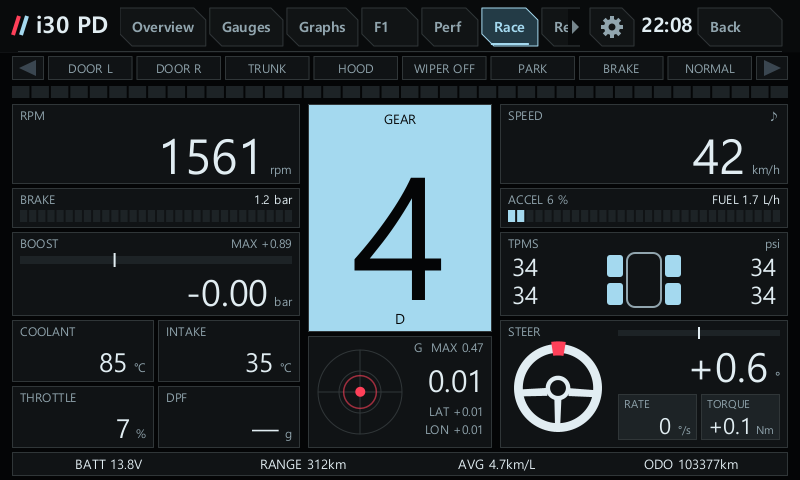
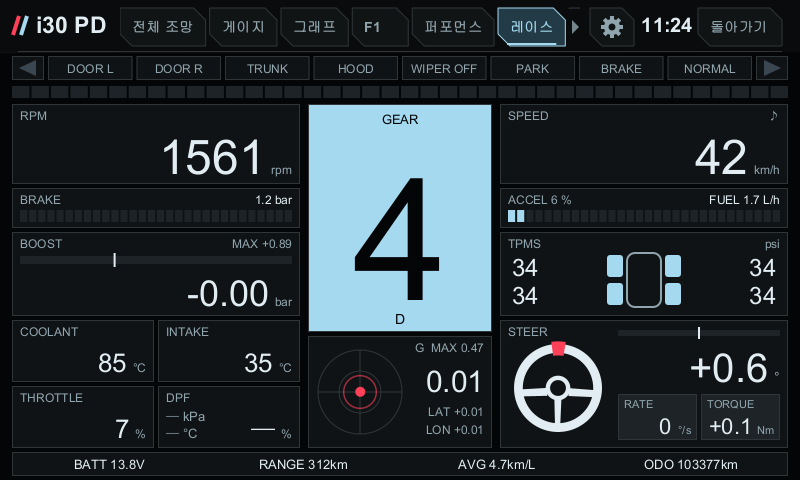
Diesel DPF cell: regeneration trigger, delta pressure and temperature at once
The trigger % stays big at the bottom right; the delta pressure (kPa)
and DPF temperature (°C) sit small on the left, grey dashes until the
ECU answers, amber with the rest while a regeneration runs.
Preview 4c_race_diesel_regen now carries all three.

Claude-Session: https://claude.ai/code/session_01Az6daSZV5SZDR97Vaa66ny

diff --git a/shared/src/com/veloster/vehicle/RaceRenderer.java b/shared/src/com/veloster/vehicle/RaceRenderer.java
@@ -58,13 +58,8 @@ public final class RaceRenderer {
         cell(c,"COOLANT",fmt("%.0f",v(2)),"°C",L,320,L+w,320+h,26,v(2)>=110?D():v(2)>=100?AMBER:WHITE);
         cell(c,"INTAKE",fmt("%.0f",v(Telemetry.INTAKE)),"°C",L+w+4,320,LC,320+h,26,v(Telemetry.INTAKE)>=80?D():v(Telemetry.INTAKE)>=60?AMBER:WHITE);
         cell(c,"THROTTLE",fmt("%.0f",v(Telemetry.THROTTLE_POS)),"%",L,324+h,L+w,BOT,26,WHITE);
-        // A diesel has no ignition timing: the slot shows the DPF from the standard OBD PIDs — the regeneration trigger
-        // (how close the next regeneration is), else the delta pressure; amber with REGEN while one runs. Unconfirmed
-        // on a PD diesel: a dash until the ECU answers.
-        if(prof.fuel==VehicleProfile.Fuel.DIESEL){
-            float tr=v(Telemetry.DPF_TRIGGER),dp=v(Telemetry.DPF_DP);boolean regen=v(Telemetry.DPF_REGEN)>0;
-            cell(c,regen?"DPF REGEN":"DPF",!Float.isNaN(tr)?fmt("%.0f",tr):fmt("%.1f",dp),!Float.isNaN(tr)?"%":Float.isNaN(dp)?"":"kPa",L+w+4,324+h,LC,BOT,26,regen?AMBER:WHITE);
-        }
+        // A diesel has no ignition timing: the slot shows the DPF from the standard OBD PIDs, all three at once.
+        if(prof.fuel==VehicleProfile.Fuel.DIESEL)dpf(c,L+w+4,324+h,LC,BOT);
         else cell(c,"SPARK",fmt("%.0f",v(Telemetry.SPARK)),"°",L+w+4,324+h,LC,BOT,26,WHITE);
         gear(c);gforce(c);
         // Shift point reached: the whole page edge blinks with the bar and the gear box.
@@ -125,6 +120,14 @@ public final class RaceRenderer {
         p.setStyle(Paint.Style.STROKE);p.setStrokeWidth(1);p.setColor(T(LINE));c.drawRect(l+.5f,t+.5f,rr-.5f,b-.5f,p);p.setStyle(Paint.Style.FILL);
     }
     /** Caption top-left, value right-aligned at the bottom with a small unit. */
+    /** DPF cell: the regeneration trigger (how close the next regeneration is) big, delta pressure and temperature
+     *  small on the left; amber with DPF REGEN while one runs. Each reads "—" until the ECU answers (unconfirmed on a PD diesel). */
+    private void dpf(Canvas c,float l,float t,float rr,float b){
+        float tr=v(Telemetry.DPF_TRIGGER),dp=v(Telemetry.DPF_DP),tp=v(Telemetry.DPF_TEMP);boolean regen=v(Telemetry.DPF_REGEN)>0;int ink=regen?AMBER:WHITE;
+        cell(c,regen?"DPF REGEN":"DPF",fmt("%.0f",tr),"%",l,t,rr,b,24,ink);
+        text(c,fmt("%.1f",dp)+" kPa",l+8,t+35,13,Float.isNaN(dp)?MUTED:ink,Paint.Align.LEFT);
+        text(c,fmt("%.0f",tp)+" °C",l+8,t+52,13,Float.isNaN(tp)?MUTED:ink,Paint.Align.LEFT);
+    }
     private void cell(Canvas c,String caption,String value,String unit,float l,float t,float rr,float b,float size,int color){
         box(c,l,t,rr,b,PANEL);
         text(c,caption,l+8,t+16,12,MUTED,Paint.Align.LEFT);

diff --git a/i30pd_port/app/preview/TabsPreview.java b/i30pd_port/app/preview/TabsPreview.java
@@ -49,7 +49,7 @@ public final class TabsPreview {
         race(out,"4c_race_mt_out",rec,model,now,VehicleProfile.PETROL_MT,0);   // and released
         race(out,"4c_race_mt_hint",rec,model,now,VehicleProfile.PETROL_MT,0,4); // the ECU's shift hint (▲4) on its red band
         race(out,"4c_race_diesel",rec,model,now,VehicleProfile.DIESEL_DCT,-1); // DPF slot instead of SPARK
-        model.obd(0x8b,new byte[]{0x11,0x01,(byte)0x9e,0,0,0,0},now);model.obd(0x7a,new byte[]{0x01,0x05,(byte)0xdc,0,0,0,0},now);   // standard DPF PIDs: regenerating, trigger 62 %
+        model.obd(0x8b,new byte[]{0x11,0x01,(byte)0x9e,0,0,0,0},now);model.obd(0x7a,new byte[]{0x01,0x05,(byte)0xdc,0,0,0,0},now);model.obd(0x7c,new byte[]{0x01,0x19,0x64,0,0,0,0,0,0},now);   // standard DPF PIDs: regenerating, trigger 62 %, 15 kPa, 610 °C
         race(out,"4c_race_diesel_regen",rec,model,now,VehicleProfile.DIESEL_DCT,-1);
         rec.setPage(PitRenderer.PAGE_RECORDS);save(out,"4d_records",rec,model,now,false,false);
         String[] layouts={"9a_cluster_classic","9b_cluster_retro","9c_cluster_rally","9d_cluster_taxi","9e_cluster_80s","9f_cluster_hud","9g_cluster_8bit","9g_cluster_8bit_chase",

diff --git a/i30pd_port/app/TABS.md b/i30pd_port/app/TABS.md
@@ -75,7 +75,7 @@ F1 탭처럼 평면 패널(직사각형, 1 px 테두리)과 F1 색으로, 애프
 
 **차종별 칸**(테스트 버전, 프리뷰 확인·실차 보류):
 - **수동(6MT)**: 브레이크 막대 왼쪽에 **CLUTCH** 칸이 생긴다. 둘째 줄이 발밑 페달 순서(클러치 · 브레이크 · 기어 · 가속)와 같아진다. 클러치를 밟으면 칸이 강조색으로 차고 `IN`, 떼면 `OUT`, 값이 없으면 "—". 신호는 단수 계산에 쓰는 EMS12 `CLU_ACK`(byte3 bit7, 6MT 오너 실차 확인)를 받은 그대로 보여 준다. 같은 비트가 7DCT에선 P/N을 뜻하므로 자동변속기 화면에는 나오지 않는다.
-- **디젤**: 점화시기가 없는 SPARK 칸 자리가 **DPF** 칸이 된다. 엔진 ECU에 표준 OBD PID를 묻는다(읽기만): `0x8B` 재생 상태·**재생 트리거**(다음 재생까지 얼마나 찼는지, %), `0x7A` DPF 차압(kPa), `0x7C` DPF 온도(°C). 칸에는 재생 트리거 %(없으면 차압 kPa)를 보이고, 재생 중이면 제목이 `DPF REGEN`, 숫자가 주황이 된다. 세 값은 게이지·그래프에서도 고를 수 있다(`DPF 차압`·`DPF 온도`·`DPF 재생`·`DPF 재생 트리거`). 각 PID는 응답 첫 바이트(지원 표시)가 가리키는 값만 쓰고, 세 번 연달아 답이 없으면(가솔린) 그 주행 동안 다시 묻지 않는다. 응답 원본은 10초에 한 번 기록(`VehicleDash` 태그)에 남아 진단 기록으로 받아 볼 수 있다. PD 디젤에서 이 PID가 답하는지는 아직 모른다(다른 U2 엔진에서 0이나 엉터리 값이 나왔다는 보고가 있음) — 답이 없으면 "—"이고, 디젤 차주의 진단 기록으로 확인한다. 포집량 g는 공개된 신호가 없어 넣지 않았다.
+- **디젤**: 점화시기가 없는 SPARK 칸 자리가 **DPF** 칸이 된다. 엔진 ECU에 표준 OBD PID를 묻는다(읽기만): `0x8B` 재생 상태·**재생 트리거**(다음 재생까지 얼마나 찼는지, %), `0x7A` DPF 차압(kPa), `0x7C` DPF 온도(°C). 칸에는 세 값을 함께 보인다: 오른쪽 아래에 재생 트리거 %를 크게, 왼쪽에 차압 kPa와 DPF 온도 °C를 작게. 재생 중이면 제목이 `DPF REGEN`, 숫자가 모두 주황이 된다. 답이 없는 값은 "—"(회색). 세 값은 게이지·그래프에서도 고를 수 있다(`DPF 차압`·`DPF 온도`·`DPF 재생`·`DPF 재생 트리거`). 각 PID는 응답 첫 바이트(지원 표시)가 가리키는 값만 쓰고, 세 번 연달아 답이 없으면(가솔린) 그 주행 동안 다시 묻지 않는다. 응답 원본은 10초에 한 번 기록(`VehicleDash` 태그)에 남아 진단 기록으로 받아 볼 수 있다. PD 디젤에서 이 PID가 답하는지는 아직 모른다(다른 U2 엔진에서 0이나 엉터리 값이 나왔다는 보고가 있음) — 답이 없으면 "—"이고, 디젤 차주의 진단 기록으로 확인한다. 포집량 g는 공개된 신호가 없어 넣지 않았다.
 
 | 6MT · 클러치 밟음 | 6MT · 클러치 뗌 | 디젤 |
 |---|---|---|
